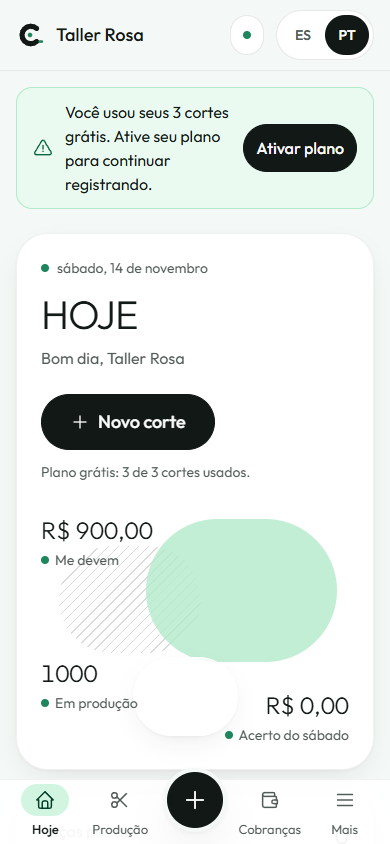
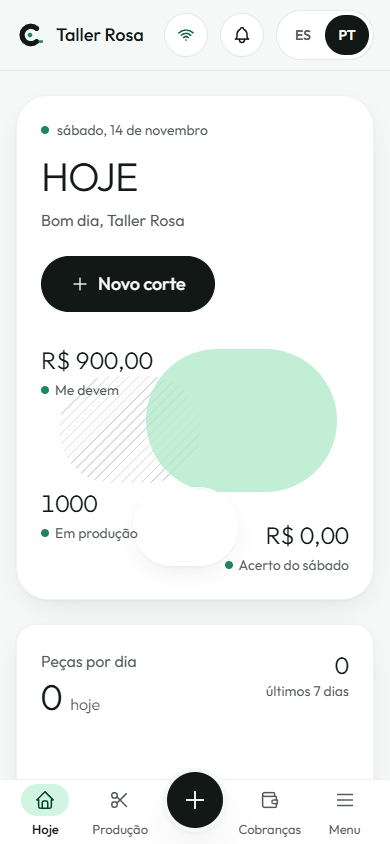
Página de confirmação do pagamento e imagens sempre atualizadas
- /assinar/concluido: para onde a AbacatePay devolve depois de pagar; confere o pagamento
  na hora e mostra "Tudo pronto" (com plano, forma, valor e 1ª/próxima cobrança),
  "Confirmando" (atualiza sozinho a cada 3 s) ou "Não concluído"
- Voltar sem pagar cai no fluxo com aviso "nada foi cobrado"; link antigo /cuenta?checkout=ok redireciona
- Service worker: imagens e ilustrações vêm da rede (cópia só para usar sem sinal) e a versão
  nova apaga o cache antigo nos aparelhos; capturas da landing refeitas com o visual atual

diff --git a/src/app/[locale]/(checkout)/assinar/concluido/page.tsx b/src/app/[locale]/(checkout)/assinar/concluido/page.tsx
@@ -1,0 +1,149 @@
+import { getTranslations, setRequestLocale } from "next-intl/server";
+import { CircleCheck, Clock, TriangleAlert, ArrowRight, CreditCard, QrCode } from "@/components/icons";
+import { Link } from "@/i18n/navigation";
+import { currentUser, loadWorkshopContext } from "@/lib/session";
+import { billingMode, reconcileSubscription } from "@/server/billing";
+import { formatDate } from "@/lib/dates";
+import { formatBRL } from "@/lib/money";
+import { brand } from "@/config/brand";
+import { subscriptions } from "@/db/schema";
+import { AutoRefresh } from "./auto-refresh";
+
+export const dynamic = "force-dynamic";
+
+/**
+ * Para onde a AbacatePay devolve a pessoa depois do pagamento.
+ * Confere o pagamento na hora (não depende do webhook) e mostra: pronto, confirmando ou não concluído.
+ */
+export default async function ConcluidoPage({ params, searchParams }: { params: Promise<{ locale: string }>; searchParams: Promise<{ t?: string }> }) {
+  const { locale } = await params;
+  const { t: triesRaw } = await searchParams;
+  setRequestLocale(locale);
+  const t = await getTranslations("subscribe");
+  const tries = Math.min(10, Math.max(0, Number(triesRaw) || 0));
+
+  const card = (children: React.ReactNode) => <div className="w-full max-w-lg rounded-[2rem] border border-ink/[0.06] bg-card p-6 text-center shadow-lift sm:p-8">{children}</div>;
+
+  const user = await currentUser();
+  if (!user) {
+    return card(
+      <>
+        <Icon tone="ok">
+          <CircleCheck aria-hidden="true" className="size-8" />
+        </Icon>
+        <h1 className="text-hero mt-5 text-3xl sm:text-4xl">{t("doneLoggedOutTitle")}</h1>
+        <p className="mt-2 text-muted-foreground">{t("doneLoggedOutBody")}</p>
+        <Link href={`/entrar?next=${encodeURIComponent(`/${locale}/assinar/concluido`)}`} className="mt-6 inline-flex min-h-12 items-center justify-center gap-2 rounded-full bg-primary px-6 font-medium text-primary-foreground hover:bg-primary/85">
+          {t("doneLogin")}
+          <ArrowRight aria-hidden="true" className="size-5" />
+        </Link>
+      </>,
+    );
+  }
+
+  const ctx = await loadWorkshopContext();
+  let status = ctx?.workshop.planStatus;
+  let sub = ctx?.subscription ?? null;
+  if (ctx && billingMode() === "abacatepay") {
+    const changed = await reconcileSubscription(ctx, { force: true });
+    if (changed) {
+      // o contexto da requisição fica em cache: relê a assinatura atualizada
+      status = changed;
+      sub = (await ctx.tdb.first(subscriptions)) ?? null;
+    }
+  }
+
+  if (status === "active" || status === "trialing") {
+    const trial = status === "trialing";
+    const MethodIcon = sub?.method === "PIX" ? QrCode : CreditCard;
+    const when = trial ? sub?.trialEndsAt ?? sub?.currentPeriodEnd : sub?.currentPeriodEnd;
+    return card(
+      <>
+        <Icon tone="ok">
+          <CircleCheck aria-hidden="true" className="size-8" />
+        </Icon>
+        <h1 className="text-hero mt-5 text-4xl">{t("doneTitle")}</h1>
+        <p className="mt-2 text-muted-foreground">{trial ? t("doneTrialBody", { date: when ? formatDate(when, locale) : "—" }) : t("doneActiveBody")}</p>
+        <dl className="mt-6 grid grid-cols-2 gap-3 rounded-2xl bg-mint-50 p-4 text-left text-sm">
+          <div>
+            <dt className="text-xs text-muted-foreground">{t("donePlan")}</dt>
+            <dd className="font-medium">{t("planName")}</dd>
+          </div>
+          <div>
+            <dt className="text-xs text-muted-foreground">{t("doneMethod")}</dt>
+            <dd className="inline-flex items-center gap-1.5 font-medium">
+              <MethodIcon aria-hidden="true" className="size-4" />
+              {sub?.method === "PIX" ? t("pixTitle") : t("cardTitle")}
+            </dd>
+          </div>
+          <div>
+            <dt className="text-xs text-muted-foreground">{t("doneValue")}</dt>
+            <dd className="font-medium tabular-money">
+              {formatBRL(brand.planPriceCents, locale)}
+              {t("perMonth")}
+            </dd>
+          </div>
+          <div>
+            <dt className="text-xs text-muted-foreground">{trial ? t("doneFirstCharge") : t("doneNextCharge")}</dt>
+            <dd className="font-medium">{when ? formatDate(trial ? when : new Date(when.getTime() - 3 * 86_400_000), locale) : "—"}</dd>
+          </div>
+        </dl>
+        <div className="mt-6 flex flex-col gap-3 sm:flex-row sm:justify-center">
+          <Link href="/hoy" className="inline-flex min-h-12 items-center justify-center gap-2 rounded-full bg-primary px-6 font-medium text-primary-foreground hover:bg-primary/85">
+            {t("goPanel")}
+            <ArrowRight aria-hidden="true" className="size-5" />
+          </Link>
+          <Link href="/cuenta" className="inline-flex min-h-12 items-center justify-center rounded-full border border-ink/15 px-6 font-medium hover:border-ink/40">
+            {t("goAccount")}
+          </Link>
+        </div>
+      </>,
+    );
+  }
+
+  // ainda sem confirmação: a AbacatePay pode levar alguns segundos; a página confere de novo sozinha
+  if (status === "pending_checkout" || sub?.status === "pending_checkout") {
+    const giveUp = tries >= 10;
+    return card(
+      <>
+        <Icon tone="wait">
+          <Clock aria-hidden="true" className="size-8" />
+        </Icon>
+        <h1 className="text-hero mt-5 text-3xl sm:text-4xl">{giveUp ? t("doneSlowTitle") : t("doneWaitingTitle")}</h1>
+        <p className="mt-2 text-muted-foreground">{giveUp ? t("doneSlowBody") : t("doneWaitingBody")}</p>
+        {!giveUp ? <AutoRefresh tries={tries} label={t("doneChecking")} /> : null}
+        <div className="mt-6 flex flex-col gap-3 sm:flex-row sm:justify-center">
+          <a href={`/${locale}/assinar/concluido?t=${tries + 1}`} className="inline-flex min-h-12 items-center justify-center rounded-full bg-primary px-6 font-medium text-primary-foreground hover:bg-primary/85">
+            {t("doneCheckNow")}
+          </a>
+          <Link href="/assinar" className="inline-flex min-h-12 items-center justify-center rounded-full border border-ink/15 px-6 font-medium hover:border-ink/40">
+            {t("doneTryAgain")}
+          </Link>
+        </div>
+      </>,
+    );
+  }
+
+  return card(
+    <>
+      <Icon tone="warn">
+        <TriangleAlert aria-hidden="true" className="size-8" />
+      </Icon>
+      <h1 className="text-hero mt-5 text-3xl sm:text-4xl">{t("doneFailedTitle")}</h1>
+      <p className="mt-2 text-muted-foreground">{t("doneFailedBody")}</p>
+      <div className="mt-6 flex flex-col gap-3 sm:flex-row sm:justify-center">
+        <Link href="/assinar" className="inline-flex min-h-12 items-center justify-center rounded-full bg-primary px-6 font-medium text-primary-foreground hover:bg-primary/85">
+          {t("doneTryAgain")}
+        </Link>
+        <Link href="/hoy" className="inline-flex min-h-12 items-center justify-center rounded-full border border-ink/15 px-6 font-medium hover:border-ink/40">
+          {t("goPanel")}
+        </Link>
+      </div>
+    </>,
+  );
+}
+
+function Icon({ tone, children }: { tone: "ok" | "wait" | "warn"; children: React.ReactNode }) {
+  const cls = tone === "ok" ? "bg-mint-100 text-vivid-strong" : tone === "wait" ? "bg-awaiting-confirmation-bg text-awaiting-confirmation-fg" : "bg-overdue-calote-bg text-overdue-calote-fg";
+  return <span className={`mx-auto inline-flex size-16 items-center justify-center rounded-full ${cls}`}>{children}</span>;
+}

diff --git a/public/sw.js b/public/sw.js
@@ -3,7 +3,8 @@
  * Estáticos do Next (/_next/static, ícones, fontes): cache-first.
  * API e POST nunca são cacheados: a fila offline (IndexedDB) cuida das mutações.
  */
-const VERSION = "carretel-v1";
+// trocar a versão apaga os caches antigos nos aparelhos (feito quando imagens fixas mudaram)
+const VERSION = "carretel-v2";
 const SHELL = ["/es/hoy", "/pt-BR/hoy", "/icons/icon-192.png", "/icon.svg"];
 
 self.addEventListener("install", (event) => {
@@ -33,7 +34,24 @@ self.addEventListener("fetch", (event) => {
   // links públicos de prova/recibo: sempre da rede (registro de visualização)
   if (/^\/(es|pt-BR)\/(c|r)\//.test(url.pathname)) return;
 
-  if (url.pathname.startsWith("/_next/static/") || url.pathname.startsWith("/icons/") || /\.(svg|png|ico|woff2)$/.test(url.pathname)) {
+  // imagens e ilustrações com nome fixo (podem mudar a cada deploy): rede primeiro, cópia só para usar sem sinal
+  if (!url.pathname.startsWith("/_next/static/") && /\.(svg|png|jpe?g|webp|ico)$/.test(url.pathname)) {
+    event.respondWith(
+      fetch(req)
+        .then((res) => {
+          if (res.ok) {
+            const copy = res.clone();
+            caches.open(VERSION).then((c) => c.put(req, copy));
+          }
+          return res;
+        })
+        .catch(async () => (await caches.match(req)) || new Response(null, { status: 504 })),
+    );
+    return;
+  }
+
+  // arquivos do Next com hash no nome e fontes nunca mudam: cache primeiro
+  if (url.pathname.startsWith("/_next/static/") || /\.woff2$/.test(url.pathname)) {
     event.respondWith(
       caches.match(req).then(
         (hit) =>

diff --git a/src/server/billing.ts b/src/server/billing.ts
@@ -136,7 +136,7 @@ export async function startCheckout(ctx: WorkshopContext, method: "PIX" | "CARD"
       customerId = customer.id;
     } catch (err) {
       // sem cliente pré-cadastrado o checkout pede os dados; não bloqueia a assinatura
-      console.error(JSON.stringify({ level: "warn", msg: "abacate_customer_failed", err: String(err) }));
+      console.warn(JSON.stringify({ level: "warn", msg: "abacate_customer_failed", err: String(err) }));
     }
   }
 
@@ -148,8 +148,8 @@ export async function startCheckout(ctx: WorkshopContext, method: "PIX" | "CARD"
       methods: [method],
       ...(customerId ? { customerId } : {}),
       externalId,
-      completionUrl: `${appUrl()}/${locale}/cuenta?checkout=ok`,
-      returnUrl: `${appUrl()}/${locale}/cuenta?checkout=cancel`,
+      completionUrl: `${appUrl()}/${locale}/assinar/concluido`,
+      returnUrl: `${appUrl()}/${locale}/assinar?checkout=cancel`,
       ...(method === "CARD" ? { retryPolicy: { maxRetry: 3, retryEvery: 2 }, card: { maxInstallments: 1 } } : {}),
       metadata: { workshopId: ctx.workshop.id },
     },
@@ -207,7 +207,7 @@ export async function reconcileSubscription(ctx: Pick<WorkshopContext, "tdb" | "
       remote = await abacate<RemoteSubscription>("/subscriptions/get", { query: { id: sub.abacateSubscriptionId } });
     }
   } catch (err) {
-    console.error(JSON.stringify({ level: "warn", msg: "abacate_reconcile_failed", err: String(err) }));
+    console.warn(JSON.stringify({ level: "warn", msg: "abacate_reconcile_failed", err: String(err) }));
     return null;
   }
   if (!remote) return null;

diff --git a/src/app/[locale]/(checkout)/assinar/page.tsx b/src/app/[locale]/(checkout)/assinar/page.tsx
@@ -15,8 +15,9 @@ export const dynamic = "force-dynamic";
  * sem sessão → passo "Conta" (entrar ou criar ali mesmo); sem taller → passo "Taller"; senão → "Pagamento".
  * O botão de upgrade do painel cai aqui já logado, então começa direto no pagamento.
  */
-export default async function AssinarPage({ params }: { params: Promise<{ locale: string }> }) {
+export default async function AssinarPage({ params, searchParams }: { params: Promise<{ locale: string }>; searchParams: Promise<{ checkout?: string }> }) {
   const { locale } = await params;
+  const { checkout } = await searchParams;
   setRequestLocale(locale);
   const t = await getTranslations("subscribe");
   const user = await currentUser();
@@ -54,6 +55,7 @@ export default async function AssinarPage({ params }: { params: Promise<{ locale
       billing={billingMode()}
       testMode={billingIsTestMode()}
       pixAvailable={pixAutomaticoAvailable()}
+      canceledNotice={checkout === "cancel"}
       trialDays={brand.cardTrialDays}
       trialEligible={!(ctx?.subscription && (ctx.subscription.abacateSubscriptionId || ctx.subscription.firstChargedAt || ctx.subscription.trialEndsAt))}
       priceCents={brand.planPriceCents}

diff --git a/src/app/[locale]/(checkout)/assinar/concluido/auto-refresh.tsx b/src/app/[locale]/(checkout)/assinar/concluido/auto-refresh.tsx
@@ -1,0 +1,20 @@
+"use client";
+import * as React from "react";
+
+/** Confere de novo a cada 3 s (até 10 vezes) enquanto a AbacatePay confirma o pagamento. */
+export function AutoRefresh({ tries, label }: { tries: number; label: string }) {
+  React.useEffect(() => {
+    const id = window.setTimeout(() => {
+      const url = new URL(window.location.href);
+      url.searchParams.set("t", String(tries + 1));
+      window.location.replace(url.toString());
+    }, 3000);
+    return () => window.clearTimeout(id);
+  }, [tries]);
+  return (
+    <p className="mt-5 inline-flex items-center gap-2 text-sm text-muted-foreground" role="status">
+      <span className="size-2 rounded-full bg-vivid motion-safe:animate-pulse" aria-hidden="true" />
+      {label}
+    </p>
+  );
+}

diff --git a/src/app/[locale]/(app)/cuenta/page.tsx b/src/app/[locale]/(app)/cuenta/page.tsx
@@ -20,7 +20,8 @@ export default async function CuentaPage({ params, searchParams }: { params: Pro
   setRequestLocale(locale);
   const ctx = await requireWorkshop();
   const t = await getTranslations();
-  // confere com a AbacatePay (volta do checkout, cancelamento pelo portal etc.) — funciona mesmo sem webhook
+  if (checkout === "ok") redirect(`/${locale}/assinar/concluido`);
+  // confere com a AbacatePay (cancelamento pelo portal etc.) — funciona mesmo sem webhook
   if (ctx.subscription && billingMode() === "abacatepay") {
     const next = await reconcileSubscription(ctx, { force: true });
     if (next && next !== ctx.workshop.planStatus) redirect(`/${locale}/cuenta?checkout=${checkout === "ok" ? "done" : "sync"}`);

diff --git a/src/app/[locale]/(checkout)/assinar/subscribe-flow.tsx b/src/app/[locale]/(checkout)/assinar/subscribe-flow.tsx
@@ -23,6 +23,7 @@ type Props = {
   pixAvailable: boolean;
   trialDays: number;
   trialEligible: boolean;
+  canceledNotice?: boolean;
   priceCents: number;
 };
 
@@ -62,6 +63,12 @@ export function SubscribeFlow(props: Props) {
           );
         })}
       </ol>
+
+      {props.canceledNotice ? (
+        <p role="status" className="mx-auto mt-6 max-w-xl rounded-2xl bg-awaiting-confirmation-bg px-4 py-3 text-center text-sm text-awaiting-confirmation-fg">
+          {t("canceledNotice")}
+        </p>
+      ) : null}
 
       <div className="mt-7">
         {current === "account" ? (

diff --git a/src/app/[locale]/(public)/page.tsx b/src/app/[locale]/(public)/page.tsx
@@ -35,7 +35,7 @@ export default async function Landing({ params }: { params: Promise<{ locale: st
   const tc = await getTranslations("common");
   const features = t.raw("planFeatures") as string[];
   const faq = t.raw("faq") as [string, string][];
-  const shot = (name: string) => `/screenshots/${name}${locale === "pt-BR" ? "-pt" : ""}.png`;
+  const shot = (name: string) => `/screenshots/${name}${locale === "pt-BR" ? "-pt" : ""}.png?v=3`;
   const dot = <span className="size-2 rounded-full bg-vivid" aria-hidden="true" />;
 
   return (
